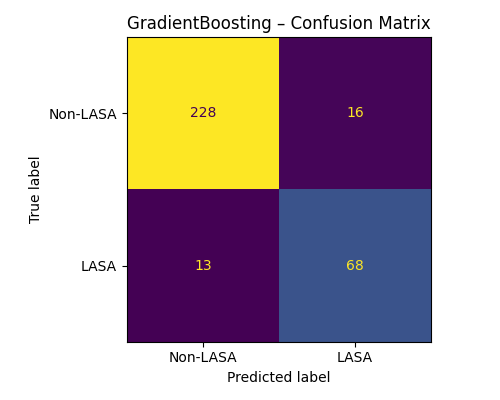
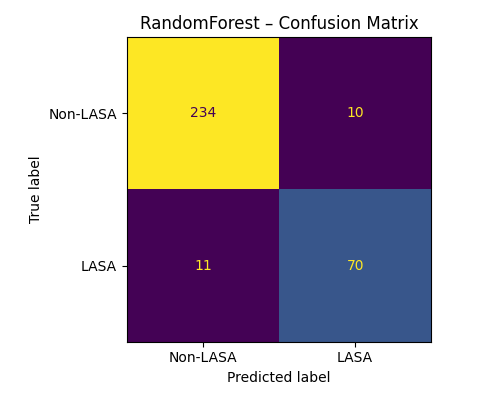
edited model training codes

diff --git a/modules/03_model_training.py b/modules/03_model_training.py
@@ -35,7 +35,7 @@ def evaluate(name, model, X_test, y_test):
     y_pred = model.predict(X_test)
     y_prob = model.predict_proba(X_test)[:, 1]
     auc    = roc_auc_score(y_test, y_prob)
-    print(f"\n── {name} ──────────────────────")
+    print(f"\n-- {name} ----------------------")
     print(classification_report(y_test, y_pred, target_names=["Non-LASA", "LASA"]))
     print(f"  AUC-ROC: {auc:.4f}")
     return auc, y_pred
@@ -45,7 +45,7 @@ def evaluate_baseline(X_test, y_test):
     y_pred    = (jw_scores > 0.85).astype(int)
     auc       = roc_auc_score(y_test, jw_scores)
     
-    print("\n── Fuzzy Matching Baseline (Jaro-Winkler > 0.85) ──")
+    print("\n-- Fuzzy Matching Baseline (Jaro-Winkler > 0.85) --")
     print(classification_report(y_test, y_pred, target_names=["Non-LASA", "LASA"]))
     print(f"  AUC-ROC: {auc:.4f}")
     return auc, y_pred
@@ -54,7 +54,7 @@ def evaluate_baseline(X_test, y_test):
 def main():
     MODEL_DIR.mkdir(exist_ok=True)
 
-    print("Loading feature matrix …")
+    print("Loading feature matrix ...")
     df = pd.read_csv(FEAT_CSV)
     print(f"  Shape: {df.shape}")
 
@@ -90,7 +90,7 @@ def main():
         if auc > best_auc:
             best_auc, best_model, best_name = auc, clf, name
 
-    print(f"\n✓ Best model: {best_name}  (AUC = {best_auc:.4f})")
+    print(f"\n> Best model: {best_name}  (AUC = {best_auc:.4f})")
 
     # ── save ──────────────────────────────────────────────────────────────────
     artifact = {
@@ -100,7 +100,7 @@ def main():
         "auc":          best_auc,
     }
     joblib.dump(artifact, MODEL_PATH)
-    print(f"✓ Model saved → {MODEL_PATH}")
+    print(f"> Model saved -> {MODEL_PATH}")
 
     # ── confusion matrix plot ─────────────────────────────────────────────────
     y_pred_best = best_model.predict(X_test)
@@ -113,7 +113,7 @@ def main():
     plt.tight_layout()
     plt.savefig(plot_path)
     plt.close()
-    print(f"✓ Confusion matrix plot saved → {plot_path}")
+    print(f"> Confusion matrix plot saved -> {plot_path}")
 
 if __name__ == "__main__":
     main()